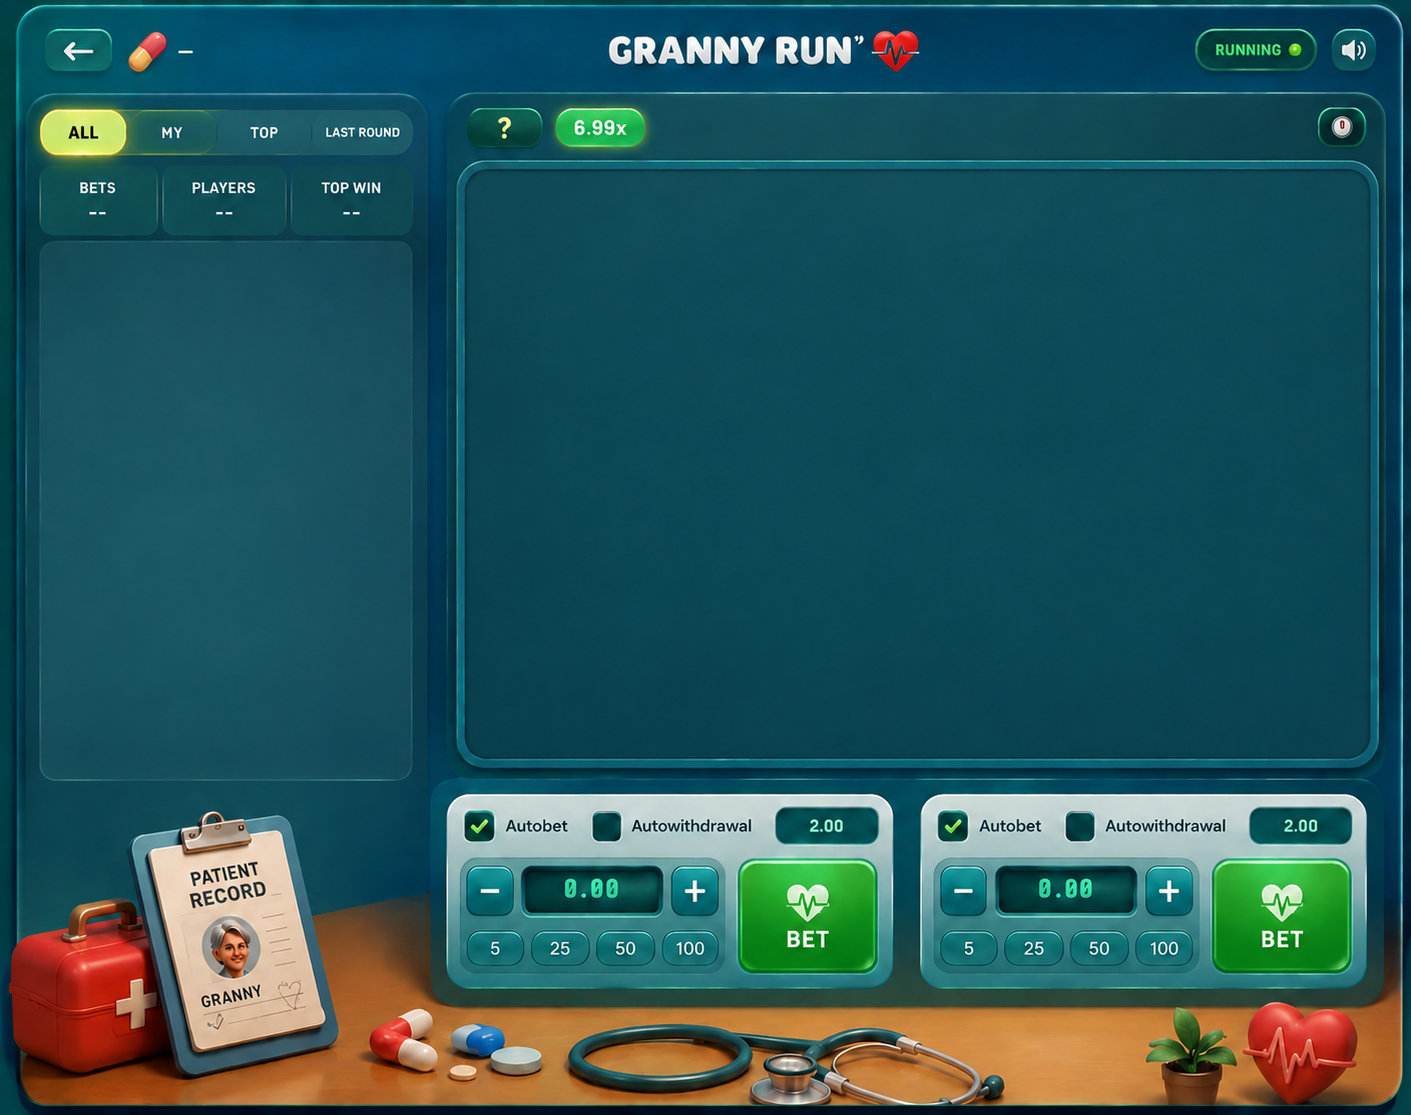
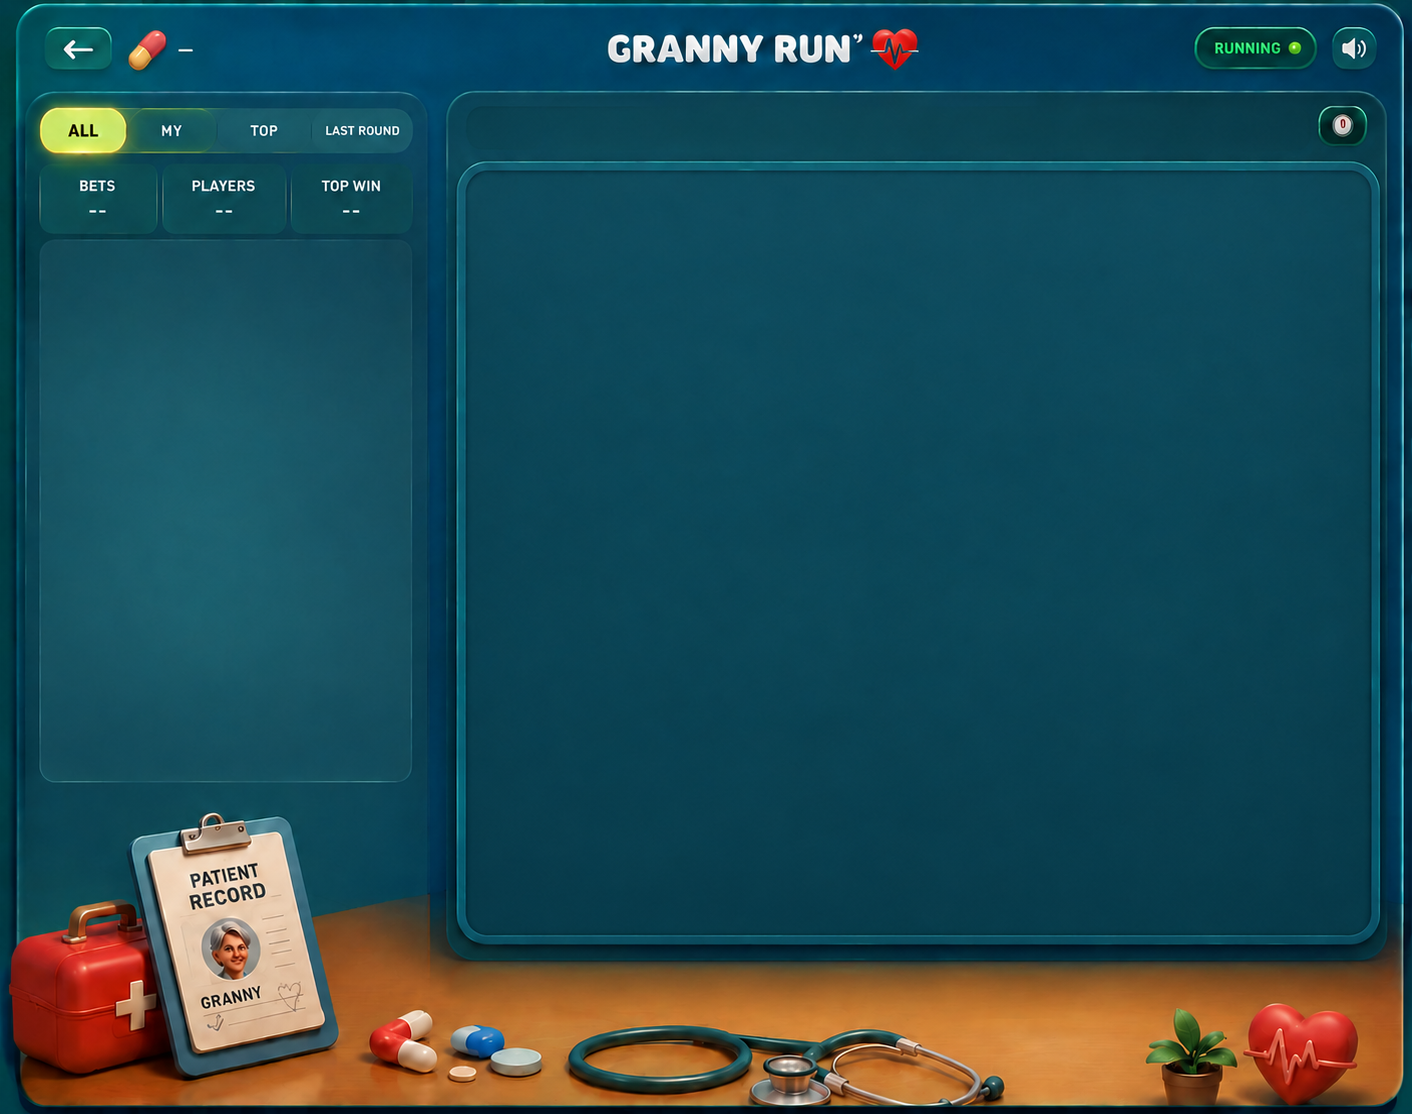
Granny Run: swap to cabinet 2 (cleaner frame, no drawn panels) + realign zones; Pirate: bat +4px up, +7% size

diff --git a/lava-platform/frontend/dist/granny.html b/lava-platform/frontend/dist/granny.html
@@ -900,40 +900,40 @@
     /* ═══ Desktop Aviator-style layout (≥1000px) ═══════════════════════════════
        Stats left, history top, 16:9 game screen (contain), bet panels bottom. */
     @media (min-width:1000px){
-      /* ═══ Cabinet skin: "Кабинет гренни.png" as the fixed-aspect frame,
-         live zones overlaid on the drawn slots (mobile layout untouched). ═══ */
+      /* ═══ Cabinet skin: "кабинет гренни 2" as the fixed-aspect frame,
+         live zones overlaid on the slots (mobile layout untouched). ═══ */
       .gran-panel{ display:contents; }
 
       .app{
         position:relative; display:block;
-        width:96vw; max-width:1240px; aspect-ratio:1411/1115;
+        width:96vw; max-width:1240px; aspect-ratio:1412/1114;
         min-height:0; margin:16px auto; padding:0;
-        background:#0a2a2e url('/assets/granny/granny-cabinet.png?v=1') center/100% 100% no-repeat;
+        background:#0a2a2e url('/assets/granny/granny-cabinet.png?v=2') center/100% 100% no-repeat;
         border:none; border-radius:20px; box-shadow:0 10px 40px rgba(0,0,0,.5);
         overflow:hidden;
       }
       /* top bar (back + balance) over the drawn title bar */
-      .topbar{ position:absolute!important; top:1%; left:3%; width:94%; height:4.6%;
+      .topbar{ position:absolute!important; top:0.8%; left:3%; width:94%; height:4.2%;
         background:transparent!important; border:none!important; padding:0!important; }
-      /* multiplier-history pills near the drawn "?" + multiplier pill */
-      .np-history{ position:absolute!important; top:8.8%; left:38%; width:28%; height:3.2%;
+      /* multiplier-history pills at the top of the game screen */
+      .np-history{ position:absolute!important; top:8%; left:33%; width:30%; height:3%;
         background:transparent!important; }
-      /* left stats list over the drawn bets panel */
+      /* left stats list (tabs + BETS/PLAYERS/TOP WIN + list) over the left panel */
       .lip{
-        position:absolute!important; left:1.6%; top:12.2%; width:11.6%; height:53%;
+        position:absolute!important; left:2.8%; top:7%; width:25.5%; height:71%;
         margin:0!important; max-width:none!important; min-height:0; overflow:hidden;
         background:transparent!important; border:none!important; border-radius:0;
       }
-      /* game screen over the drawn dark screen */
+      /* game screen over the big drawn screen */
       .game-area{
-        position:absolute!important; left:14.3%; top:12.5%; width:83.5%; height:53%;
+        position:absolute!important; left:31%; top:9.5%; width:66%; height:68%;
         margin:0!important; aspect-ratio:auto!important;
-        background:transparent!important; border:none!important; border-radius:10px;
+        background:transparent!important; border:none!important; border-radius:14px;
       }
       #bvbVideo{ object-fit:cover!important; background:transparent!important; }
-      /* both live bet panels over the two drawn panels */
+      /* live bet panels in the clear bottom area (right of the clipboard) */
       .bet-footer{
-        position:absolute!important; left:13.5%; top:66.5%; width:73.5%; height:31%;
+        position:absolute!important; left:31%; top:79.5%; width:66%; height:18.5%;
         margin:0!important; display:flex!important; flex-direction:row; gap:2.5%;
         align-items:flex-start; justify-content:center;
       }

diff --git a/lava-platform/frontend/public/granny.html b/lava-platform/frontend/public/granny.html
@@ -900,40 +900,40 @@
     /* ═══ Desktop Aviator-style layout (≥1000px) ═══════════════════════════════
        Stats left, history top, 16:9 game screen (contain), bet panels bottom. */
     @media (min-width:1000px){
-      /* ═══ Cabinet skin: "Кабинет гренни.png" as the fixed-aspect frame,
-         live zones overlaid on the drawn slots (mobile layout untouched). ═══ */
+      /* ═══ Cabinet skin: "кабинет гренни 2" as the fixed-aspect frame,
+         live zones overlaid on the slots (mobile layout untouched). ═══ */
       .gran-panel{ display:contents; }
 
       .app{
         position:relative; display:block;
-        width:96vw; max-width:1240px; aspect-ratio:1411/1115;
+        width:96vw; max-width:1240px; aspect-ratio:1412/1114;
         min-height:0; margin:16px auto; padding:0;
-        background:#0a2a2e url('/assets/granny/granny-cabinet.png?v=1') center/100% 100% no-repeat;
+        background:#0a2a2e url('/assets/granny/granny-cabinet.png?v=2') center/100% 100% no-repeat;
         border:none; border-radius:20px; box-shadow:0 10px 40px rgba(0,0,0,.5);
         overflow:hidden;
       }
       /* top bar (back + balance) over the drawn title bar */
-      .topbar{ position:absolute!important; top:1%; left:3%; width:94%; height:4.6%;
+      .topbar{ position:absolute!important; top:0.8%; left:3%; width:94%; height:4.2%;
         background:transparent!important; border:none!important; padding:0!important; }
-      /* multiplier-history pills near the drawn "?" + multiplier pill */
-      .np-history{ position:absolute!important; top:8.8%; left:38%; width:28%; height:3.2%;
+      /* multiplier-history pills at the top of the game screen */
+      .np-history{ position:absolute!important; top:8%; left:33%; width:30%; height:3%;
         background:transparent!important; }
-      /* left stats list over the drawn bets panel */
+      /* left stats list (tabs + BETS/PLAYERS/TOP WIN + list) over the left panel */
       .lip{
-        position:absolute!important; left:1.6%; top:12.2%; width:11.6%; height:53%;
+        position:absolute!important; left:2.8%; top:7%; width:25.5%; height:71%;
         margin:0!important; max-width:none!important; min-height:0; overflow:hidden;
         background:transparent!important; border:none!important; border-radius:0;
       }
-      /* game screen over the drawn dark screen */
+      /* game screen over the big drawn screen */
       .game-area{
-        position:absolute!important; left:14.3%; top:12.5%; width:83.5%; height:53%;
+        position:absolute!important; left:31%; top:9.5%; width:66%; height:68%;
         margin:0!important; aspect-ratio:auto!important;
-        background:transparent!important; border:none!important; border-radius:10px;
+        background:transparent!important; border:none!important; border-radius:14px;
       }
       #bvbVideo{ object-fit:cover!important; background:transparent!important; }
-      /* both live bet panels over the two drawn panels */
+      /* live bet panels in the clear bottom area (right of the clipboard) */
       .bet-footer{
-        position:absolute!important; left:13.5%; top:66.5%; width:73.5%; height:31%;
+        position:absolute!important; left:31%; top:79.5%; width:66%; height:18.5%;
         margin:0!important; display:flex!important; flex-direction:row; gap:2.5%;
         align-items:flex-start; justify-content:center;
       }

diff --git a/lava-platform/frontend/dist/pirate-treasure-hold.html b/lava-platform/frontend/dist/pirate-treasure-hold.html
@@ -656,7 +656,7 @@ body{display:flex;flex-direction:column;align-items:center;justify-content:flex-
              animation:batBlink 3.5s infinite; }
   /* hanging bat clutching the top-right rope of the cabinet */
   .pt-batgrip{ display:block; position:absolute; z-index:6; pointer-events:none;
-               right:-10.5%; top:19.5%; width:19.8%; height:auto;
+               right:-10.5%; top:18.7%; width:21.2%; height:auto;
                transform-origin:50% 8%; animation:batGripSway 4.5s ease-in-out infinite; }
   @keyframes batGripSway{ 0%,100%{ transform:rotate(-3deg); } 50%{ transform:rotate(3deg); } }
 

diff --git a/lava-platform/frontend/public/pirate-treasure-hold.html b/lava-platform/frontend/public/pirate-treasure-hold.html
@@ -656,7 +656,7 @@ body{display:flex;flex-direction:column;align-items:center;justify-content:flex-
              animation:batBlink 3.5s infinite; }
   /* hanging bat clutching the top-right rope of the cabinet */
   .pt-batgrip{ display:block; position:absolute; z-index:6; pointer-events:none;
-               right:-10.5%; top:19.5%; width:19.8%; height:auto;
+               right:-10.5%; top:18.7%; width:21.2%; height:auto;
                transform-origin:50% 8%; animation:batGripSway 4.5s ease-in-out infinite; }
   @keyframes batGripSway{ 0%,100%{ transform:rotate(-3deg); } 50%{ transform:rotate(3deg); } }
 
